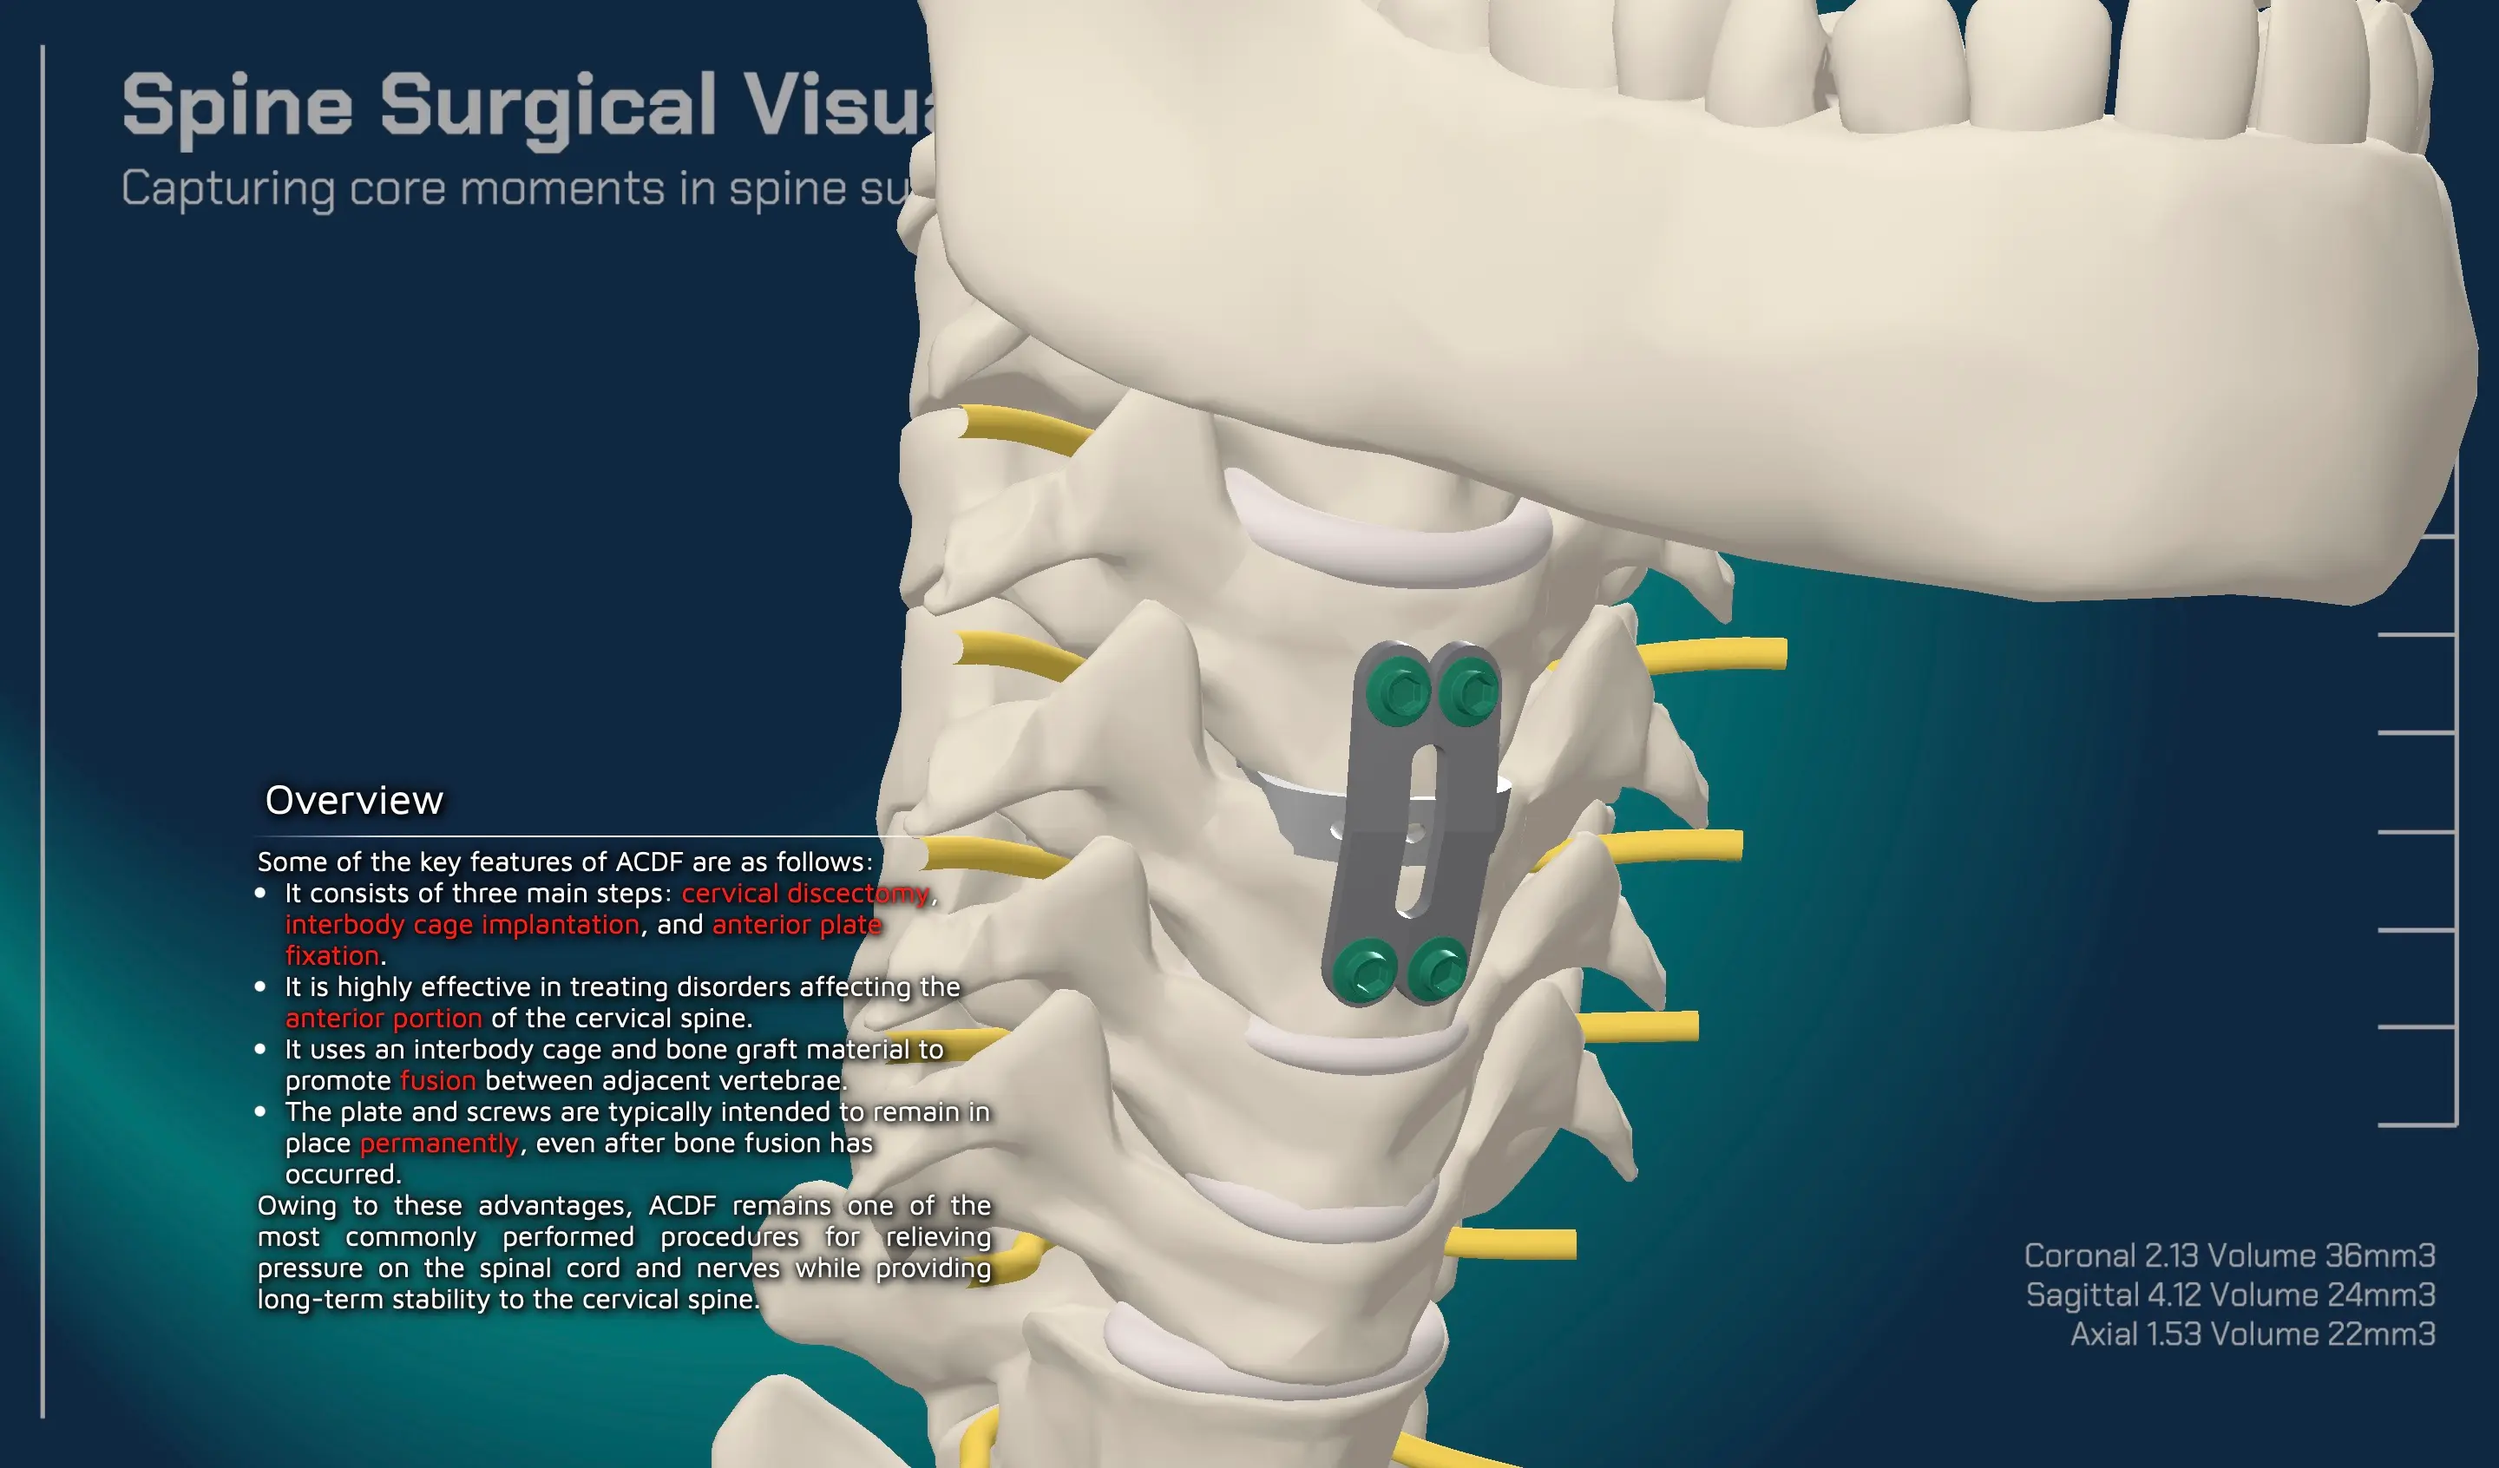
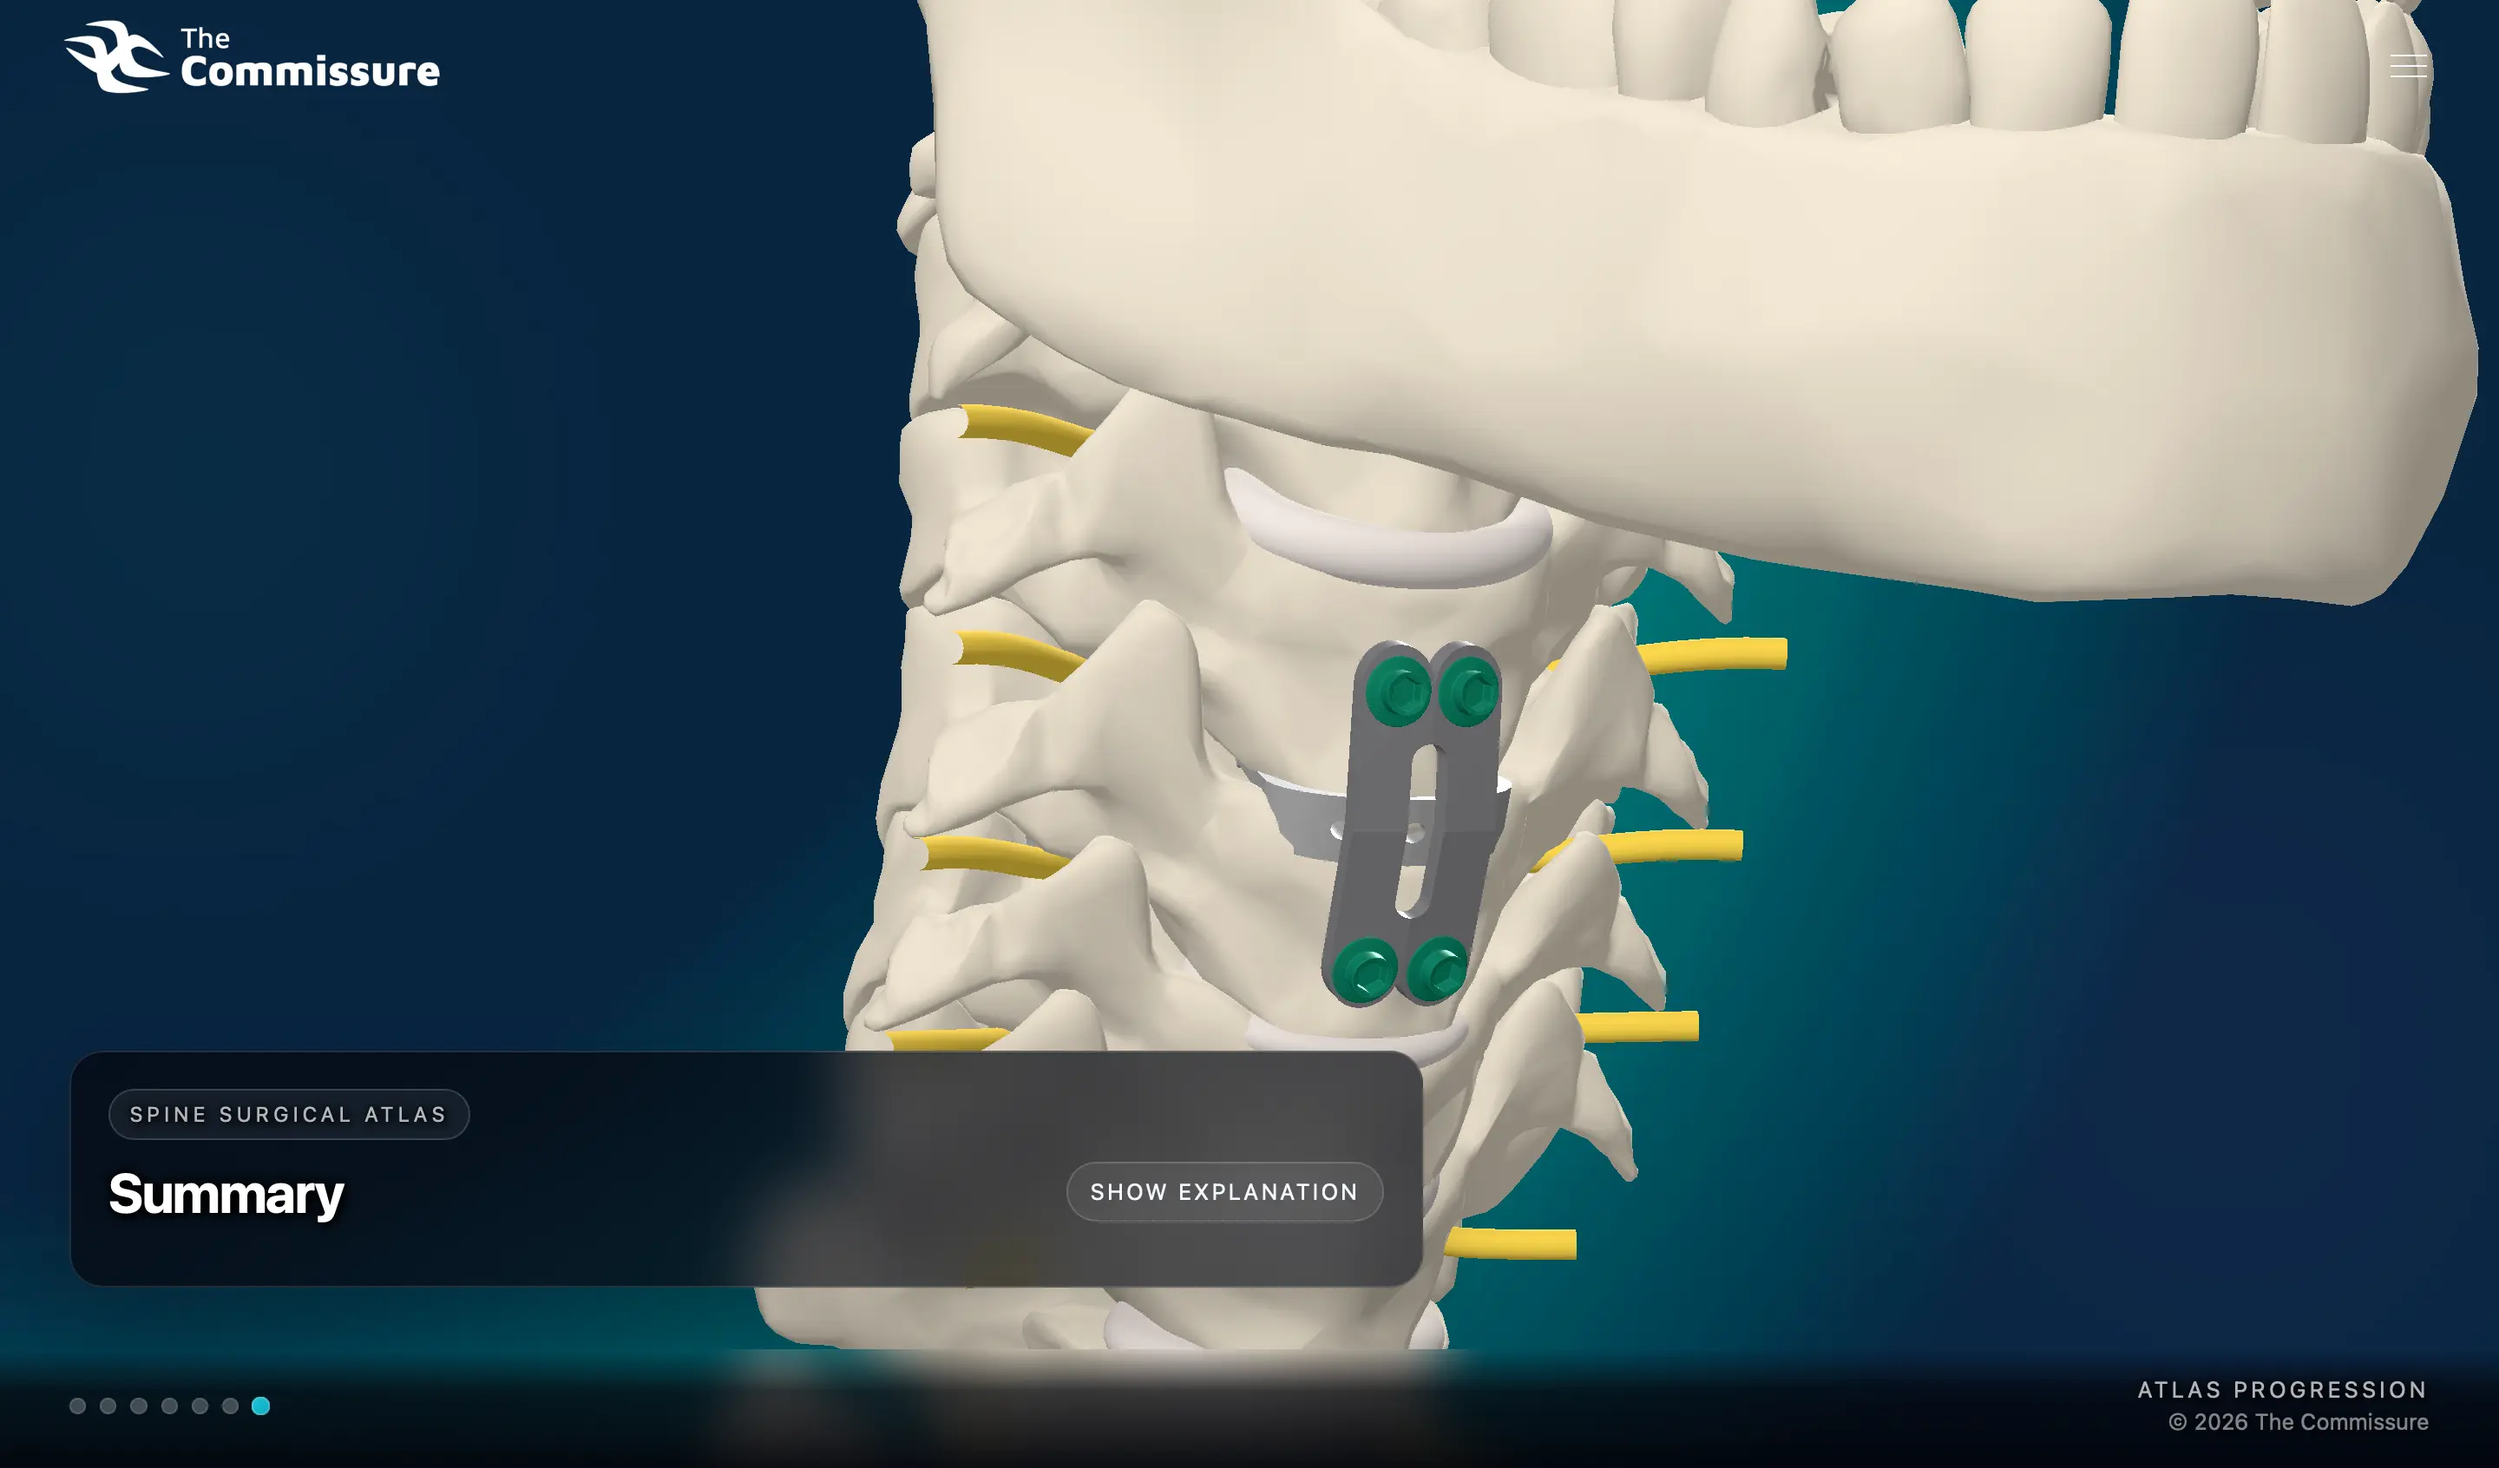
changed snap photo

diff --git a/web/src/pages/Articles.jsx b/web/src/pages/Articles.jsx
@@ -29,7 +29,7 @@ const articleGroups = [
             {
                 className: 'article5',
                 to: '/pcl_open',
-                image: '/background.webp',
+                image: '/openpclsnap.webp',
                 header: 'Open-door Posterior Cervical Laminoplasty (Open-door PCL)',
                 date: 'Aug 15, 2026',
                 description:
@@ -52,7 +52,7 @@ const articleGroups = [
             {
                 className: 'article4',
                 to: '/accf',
-                image: '/about.webp',
+                image: '/accfsnap.webp',
                 header: 'Anterior Cervical Corpectomy and Fusion (ACCF)',
                 date: 'Jun 27, 2026',
                 description:
